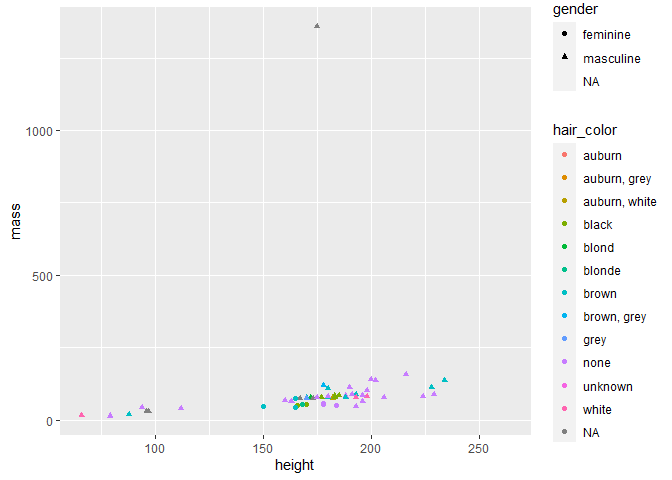
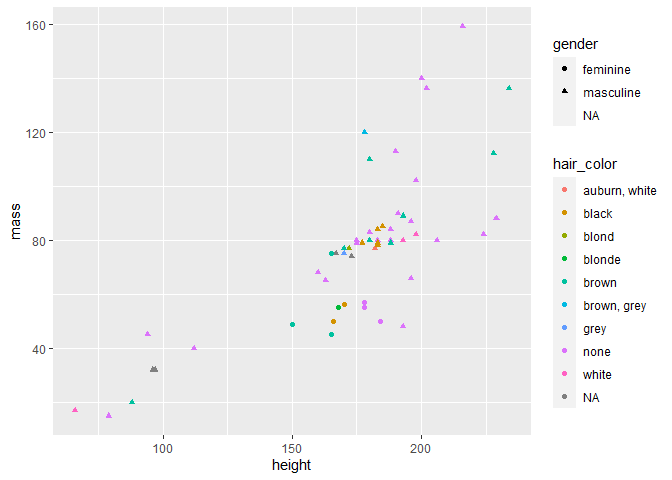
Finished product

diff --git a/starwars.md b/starwars.md
@@ -103,10 +103,10 @@ ggplot(starwars, aes(y = hair_color, fill = gender)) +
 ### Pick two numerical variables and two categorical variables and make a visualisation that incorportes all of them and provide an interpretation with your answer.
 
 ``` r
-ggplot(starwars, aes(x = height, y = mass, color = hair_color, shape = gender)) +
+ggplot(starwars %>% filter (mass < 800), aes(x = height, y = mass, color = hair_color, shape = gender)) +
   geom_point()
 ```
 
-    ## Warning: Removed 29 rows containing missing values (geom_point).
+    ## Warning: Removed 1 rows containing missing values (geom_point).
 
 ![](starwars_files/figure-gfm/multi-1.png)<!-- -->
